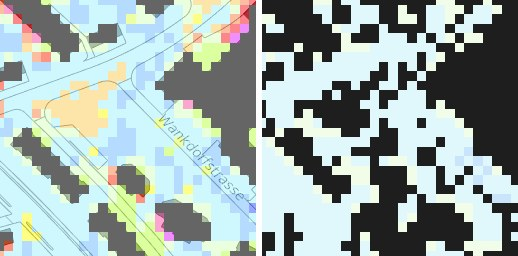
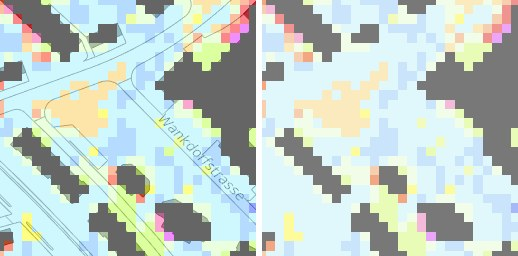
smdldc: per-tile opacity fix, cleaned Bern map, ignore mask results

Changed region(s): [[0.4942, 0.0, 1.0, 1.0], [0.4942, 0.8125, 0.5869, 1.0]]

diff --git a/smdldc/index.html b/smdldc/index.html
@@ -183,10 +183,10 @@ footer { color: var(--ink-3); font-size: var(--step--1); font-family: var(--font
       <div class="fact"><b>65 &#215; 35</b><span>tile grid over Bern</span></div>
       <div class="fact"><b>14</b><span>ordered heat levels</span></div>
       <div class="fact"><b>256 px</b><span>tile size, RGB</span></div>
-      <div class="fact"><b>9.45 px</b><span>heat raster cell</span></div><div class="fact"><b>99.9%</b><span>pixels decoded after cleaning</span></div>
+      <div class="fact"><b>9.45 px</b><span>heat raster cell</span></div><div class="fact"><b>99.2%</b><span>pixels usable for training</span></div>
     </div>
     <nav class="toc" aria-label="Sections">
-      <a href="#brief">Brief</a><a href="#data">Dataset</a><a href="#method">Method</a><a href="#grid">Grid</a><a href="#legend">Legend</a><a href="#dist">Distribution</a><a href="#examples">Examples</a><a href="#cleaning">Cleaning</a><a href="#buildings">Buildings</a><a href="#options">Options</a><a href="#split">Split</a><a href="#limits">Limitations</a><a href="#next">Next</a>
+      <a href="#brief">Brief</a><a href="#data">Dataset</a><a href="#method">Method</a><a href="#grid">Grid</a><a href="#legend">Legend</a><a href="#dist">Distribution</a><a href="#examples">Examples</a><a href="#cleaning">Cleaning</a><a href="#buildings">Buildings</a><a href="#result">Result</a><a href="#options">Options</a><a href="#split">Split</a><a href="#limits">Limitations</a><a href="#next">Next</a>
     </nav>
   </header>
 
@@ -229,7 +229,7 @@ footer { color: var(--ink-3); font-size: var(--step--1); font-family: var(--font
   <section id="method">
     <div class="col" style="display:grid;gap:12px">
       <div class="eyebrow">How we analysed it</div>
-      <h2>Seven passes over the data</h2>
+      <h2>Eight passes over the data</h2>
       <p class="muted">Each pass answered a question the previous one raised.</p>
     </div>
     <ol class="steps col">
@@ -238,6 +238,7 @@ footer { color: var(--ink-3); font-size: var(--step--1); font-family: var(--font
       <li><b>Order the classes</b><p>First estimate: the mean greenness of the photo under each colour. Then the map.bern.ch legend arrived, and we fitted it directly as a semi-transparent blend.</p></li>
       <li><b>Reconstruct the layout</b><p>Compared the edge pixels of neighbouring ids. <code>id+1</code> continues to the right, and <code>id+65</code> sits directly below in 200 of 200 samples. The tiles form one stitched map.</p></li>
       <li><b>Level distribution</b><p>Mapped every pixel to one of the 14 temperature levels and compared the core and Large sets.</p></li>
+      <li><b>Fit the rendering per tile</b><p>Tiles were exported with different layer opacities (0.50 to 0.73) and, in three tiles, a darker building grey. Each tile gets its own fitted palette before decoding.</p></li>
       <li><b>Find the heat raster</b><p>Fitted one grid of cell boundaries over the whole stitched map. 98.55% of cells contain a single colour, so the cells are the true units of the data.</p></li>
       <li><b>Check buildings against the photo</b><p>Compared the heatmap's building outlines with what the photo shows, in both directions: outlines with no building, and buildings with no outline.</p></li>
     </ol>
@@ -327,17 +328,21 @@ footer { color: var(--ink-3); font-size: var(--step--1); font-family: var(--font
       <div class="eyebrow">Finding 5</div>
       <h2>The heat map is a grid of 9.45 px cells, so lines and labels can be painted over</h2>
       <p>The heat values were computed on a coarse raster and then drawn with street lines and names on top. Fitting one grid over the stitched map gives cells of <b>9.45 px</b> in both directions. With that grid, 98.55% of cells hold a single colour.</p>
-      <p>The cleaning rule follows from it. A pixel that already matches a legend colour keeps it. A pixel that does not (line, label, anti-aliasing) takes the most common level of its cell. That changes no correctly coloured pixel. Before cleaning, 4.56% of pixels were unreadable; after, 0.10% remain unknown, mostly in a few tiles with large dark-grey or white patches.</p>
+      <p>The cleaning rule follows from it. A pixel that already matches a legend colour keeps it. A pixel that does not (line, label, anti-aliasing) takes the most common level of its cell. That changes no correctly coloured pixel. Before cleaning, 4.29% of pixels were unreadable; after, 0.077% remain unknown, all in places where the source map has no value.</p>
     </div>
     <div class="pairs">
       <figure>
         <img src="img/clean_382.jpg" alt="Heat map with street names, before and after cleaning">
-        <figcaption><b>id 382, before and after.</b> The worst tile. Street lines and the "Wankdorfstrasse" label are gone. The near-black areas were drawn in a darker grey than any legend colour and stay unknown.</figcaption>
+        <figcaption><b>id 382, before and after.</b> Street lines and the "Wankdorfstrasse" label are gone. This tile was exported at a stronger opacity (0.73) with darker building grey; with its own fitted palette, every pixel decodes.</figcaption>
       </figure>
       <figure>
         <img src="img/clean_1000.jpg" alt="Heat map with outlines, before and after cleaning">
         <figcaption><b>id 1000, before and after.</b> Thin parcel outlines disappear and the cells come out as clean blocks.</figcaption>
       </figure>
+    </div>
+    <div class="callout warn col">
+      <strong>Not every tile was rendered the same way</strong>
+      <p>A first version assumed one palette for all tiles and decoded half of id 382 as unknown, although its buildings are plainly visible. Fitting the layer opacity per tile shows several export batches: 1,411 tiles at 0.64, 360 at 0.55, 96 at 0.63, and a few others. Tiles at the common opacity are unaffected by the fix (0.01% of pixels change). Anyone downloading more tiles later should expect the same variation.</p>
     </div>
     <div class="callout col">
       <strong>One raster for the whole city</strong>
@@ -350,7 +355,7 @@ footer { color: var(--ink-3); font-size: var(--step--1); font-family: var(--font
       <div class="eyebrow">Finding 6</div>
       <h2>Some buildings exist in only one of the two images</h2>
       <p>The building outlines in the heat map and the photo were made at different times. Some outlines sit on open fields (planned or newer buildings), and some buildings in the photo have no outline, so the heat map gives them a temperature.</p>
-      <p>A first check looked at vegetation under each of the 14,241 outlines. 515 outlines (1.06% of building area) are more than 60% vegetated. That check also catches green roofs, which are real buildings. For a reliable flag in both directions, a small building detector is trained on the photos with spatial cross-validation, so each tile is judged by a model that never saw it. Where the detector confidently disagrees with the heat map, the area is flagged.</p>
+      <p>A first check looked at vegetation under each of the 14,241 outlines. 515 outlines (1.06% of building area) are more than 60% vegetated. That check also catches green roofs, which are real buildings. For a reliable flag in both directions, a small building detector (a U-Net) is trained on the photos in 5 spatial folds, so each tile is judged by a model that never saw its neighbourhood. It reaches a building IoU of 0.62 to 0.66 per fold. Where it confidently disagrees with the heat map, the area is flagged: an outline whose mean building probability is below 0.15, or a region above 0.85 with no outline.</p>
     </div>
     <div class="pairs">
       <figure>
@@ -361,11 +366,44 @@ footer { color: var(--ink-3); font-size: var(--step--1); font-family: var(--font
         <img src="img/bld_648.jpg" alt="Green roof that the vegetation check flags">
         <figcaption><b>id 648, false alarm.</b> A large green roof. The vegetation check flags it, but it is a real building. The photo-trained detector is meant to tell these apart.</figcaption>
       </figure>
+      <figure>
+        <img src="img/flags_missing.jpg" alt="New housing block in the photo, flagged where the heat map has no outlines">
+        <figcaption><b>id 2096, buildings without outline.</b> A new housing development with solar roofs. The heat map has no outlines here and gives the roofs a temperature. Flagged areas in turquoise, existing outlines in yellow.</figcaption>
+      </figure>
     </div>
     <div class="callout warn col">
       <strong>How flagged areas are used</strong>
       <p>Flagged regions and a ring of 6 px around them are excluded from training and evaluation, like unknown pixels. The heat next to a mismatch was modelled with a different building layout than the photo shows.</p>
     </div>
+  </section>
+
+  <section id="result">
+    <div class="col" style="display:grid;gap:12px">
+      <div class="eyebrow">Result</div>
+      <h2>The cleaned heat map of Bern</h2>
+      <p>All 2,275 tiles decoded to levels, with buildings and the areas to ignore marked. Training and evaluation skip 0.80% of the pixels.</p>
+    </div>
+    <figure>
+      <img src="img/overview_clean.jpg" alt="Cleaned heat map of Bern with ignored areas marked" style="width:100%;border-radius:6px">
+      <figcaption>Heat in the legend colours, buildings grey. Turquoise: building in the photo without outline. Dark teal: outline without building. Teal tint: 6 px ring around a mismatch. Black: no value in the source map (the patch south of the centre is a sports ground).</figcaption>
+    </figure>
+    <figure>
+      <img src="img/overview_crop.jpg" alt="Close-up of the cleaned map in the Breitenrain and Lorraine area" style="width:100%;border-radius:6px">
+      <figcaption>Close-up north of the old town at 128 px per tile. Mismatch flags are small and scattered.</figcaption>
+    </figure>
+    <div class="tablewrap col">
+      <table>
+        <thead><tr><th>Ignored for training</th><th class="num">Regions</th><th class="num">Share of pixels</th></tr></thead>
+        <tbody>
+          <tr><td>No value in the source map</td><td class="num">-</td><td class="num">0.08%</td></tr>
+          <tr><td>Outline without building in the photo</td><td class="num">581</td><td class="num">0.29%</td></tr>
+          <tr><td>Building in the photo without outline</td><td class="num">237</td><td class="num">0.10%</td></tr>
+          <tr><td>Ring of 6 px around a mismatch</td><td class="num">-</td><td class="num">0.33%</td></tr>
+          <tr><td><b>Total</b></td><td class="num"></td><td class="num"><b>0.80%</b></td></tr>
+        </tbody>
+      </table>
+    </div>
+    <p class="small muted col">The flags come from a detector, not from ground truth, so they are suspected mismatches. A sample check found the "building without outline" flags reliable; some small "outline without building" flags sit on sheds and garages the detector misses. They cover little area and were kept.</p>
   </section>
 
   <section id="options">
@@ -431,8 +469,8 @@ footer { color: var(--ink-3); font-size: var(--step--1); font-family: var(--font
       <div class="limit"><h3><span class="sev md">Medium</span>Quantised and overlaid target</h3><p>Values exist only as 14 bins in 9.45 px cells. Street lines and labels can be painted over, but a few large patches stay unknown. Bin edges are uneven (3 &#176;C wide at the cool end, 1 &#176;C at the hot end).</p></div>
       <div class="limit"><h3><span class="sev md">Medium</span>Imbalanced levels</h3><p>23&#8211;26 &#176;C covers 37% of the area and &gt; 43 &#176;C covers 0.7%. Extreme heat is the most relevant level and the rarest one.</p></div>
       <div class="limit"><h3><span class="sev md">Medium</span>Buildings are masked</h3><p>Roofs carry no temperature in this layer, so the model never learns anything about them. Predictions on buildings must be masked out at evaluation too.</p></div>
-      <div class="limit"><h3><span class="sev md">Medium</span>Buildings from different dates</h3><p>Outlines and photo disagree in places. The flags come from a learned detector, so a few mismatches will be missed and a few real buildings flagged.</p></div>
-      <div class="limit"><h3><span class="sev md">Medium</span>Reverse-engineered decoding</h3><p>The palette-to-level mapping comes from a colour fit, not from source data. The fit is tight for 13 of 14 levels. Raw values from the city would remove this step.</p></div>
+      <div class="limit"><h3><span class="sev md">Medium</span>Buildings from different dates</h3><p>Outlines and photo disagree in places. The flags come from a learned detector (IoU about 0.64), so a few mismatches will be missed and some small real buildings flagged.</p></div>
+      <div class="limit"><h3><span class="sev md">Medium</span>Reverse-engineered decoding</h3><p>The palette-to-level mapping comes from a colour fit, not from source data, and tiles were exported at different opacities. Each tile's palette is fitted separately. Raw values from the city would remove this step.</p></div>
     </div>
   </section>
 
@@ -443,7 +481,8 @@ footer { color: var(--ink-3); font-size: var(--step--1); font-family: var(--font
       <label><input type="checkbox" id="t1" checked> Decode legend and level order</label>
       <label><input type="checkbox" id="t2" checked> Reconstruct the tile grid</label>
       <label><input type="checkbox" id="t10" checked> Fit the heat raster grid and clean all heat maps</label>
-      <label><input type="checkbox" id="t11"> Flag building mismatches in both directions and build the ignore mask</label>
+      <label><input type="checkbox" id="t11" checked> Flag building mismatches in both directions and build the ignore mask</label>
+      <label><input type="checkbox" id="t12" checked> Fit the export opacity per tile</label>
       <label><input type="checkbox" id="t3"> Check the map.bern.ch layer metadata (quantity, time of day, model)</label>
       <label><input type="checkbox" id="t4"> Write <code>make_splits.py</code> with 5 &#215; 5 spatial blocks</label>
       <label><input type="checkbox" id="t5"> Build the dataset loader from the cleaned levels and ignore mask, with flip and rotation augmentation</label>
